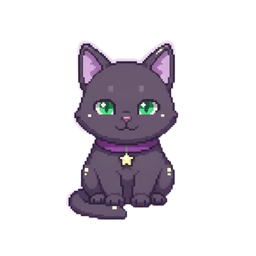
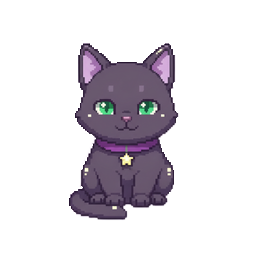
Refresh Workshop cat sprite

diff --git a/service-worker.js b/service-worker.js
@@ -1,5 +1,5 @@
 const CACHE_PREFIX = "ppw-shell-";
-const CACHE = `${CACHE_PREFIX}v44`;
+const CACHE = `${CACHE_PREFIX}v45`;
 const SHELL = ["./", "./index.html", "./style.css", "./game-logic.js", "./platform-adapters.js", "./audio-feedback.js", "./app.js", "./manifest.webmanifest", "./icon.svg", "./assets/audio/bagpop.mp3", "./assets/audio/brew-ready.mp3", "./assets/audio/brew-start.mp3", "./assets/audio/coin.mp3", "./assets/audio/confirm.mp3", "./assets/audio/gather.mp3", "./assets/audio/levelup.ogg", "./assets/audio/tap.ogg", "./assets/images/ingredients/dewleaf.png", "./assets/images/ingredients/dream-lavender.png", "./assets/images/ingredients/frostmint.png", "./assets/images/ingredients/mist-pearl.png", "./assets/images/ingredients/mooshroom.png", "./assets/images/ingredients/starshard.png", "./assets/images/ingredients/sun-ember.png", "./assets/images/misc/gather-satchel.png", "./assets/images/misc/workshop-cat.png", "./assets/images/misc/workshop-cauldron.png", "./assets/images/potions/aurora-nectar.png", "./assets/images/potions/aurora-nectar-animated-12f.png", "./assets/images/potions/bottled-sunrise.png", "./assets/images/potions/clarity-elixir.png", "./assets/images/potions/cloudbloom-tea.png", "./assets/images/potions/dreamers-draught.png", "./assets/images/potions/kindheart-cordial.png", "./assets/images/potions/lantern-sip.png", "./assets/images/potions/meadow-tonic.png", "./assets/images/potions/moonmilk.png", "./assets/images/potions/quietbell-tea.png", "./assets/images/potions/starlight-philter.png", "./assets/images/potions/wayfinder-cordial.png"];
 
 self.addEventListener("install", event => {

diff --git a/DEVICE_TEST_MATRIX.md b/DEVICE_TEST_MATRIX.md
@@ -1,6 +1,6 @@
 # Device and lifecycle test matrix
 
-Automated evidence and real browser/device evidence are separate. The active candidate is the charcoal-black/purple build with local audio, twenty-two supplied static/utility Sprixen sprites plus the optimized Aurora animation sheet, bounded automatic gathering, first-time Journal rewards, daily Villager Special Requests, and service-worker cache `ppw-shell-v44`.
+Automated evidence and real browser/device evidence are separate. The active candidate is the charcoal-black/purple build with local audio, twenty-two supplied static/utility Sprixen sprites plus the optimized Aurora animation sheet, bounded automatic gathering, first-time Journal rewards, daily Villager Special Requests, and service-worker cache `ppw-shell-v45`.
 
 ## Required local/browser candidate gates
 
@@ -36,7 +36,7 @@ Automated evidence and real browser/device evidence are separate. The active can
 | Area | Status | Required procedure |
 | --- | --- | --- |
 | Browser lifecycle | Untested | Background/resume/reload and clock-boundary tests in chosen Chromium, WebKit, and Firefox targets. |
-| PWA install/update | Untested | Install, standalone launch, update from the previous candidate `ppw-shell-v43` to `ppw-shell-v44`, confirm the in-app New update prompt appears, tap it to restart, then test offline relaunch, streamed-music behavior, eviction, and uninstall/reinstall. |
+| PWA install/update | Owner check pending | Update an installed `ppw-shell-v44` game to `ppw-shell-v45`, confirm the in-app New update prompt appears, tap it to restart, and verify the refreshed Workshop cat loads without losing progress. Offline relaunch, eviction, and uninstall/reinstall remain separate release checks. |
 | Network conditions | Untested | First load, offline reload, interrupted update, recovery, and third-party request inspection. |
 | Screen reader | Untested | Owner-approved VoiceOver, TalkBack, NVDA, or equivalent set. |
 | Physical iOS/iPadOS | Untested | Safari/PWA lifecycle, safe areas, audio unlock, storage, and orientation. |

diff --git a/RELEASE_READINESS.md b/RELEASE_READINESS.md
@@ -15,8 +15,8 @@ Audit date: 2026-07-12. Candidate version: `0.1.0`. This is an evidence report, 
 
 - `npm.cmd run check` covers deterministic gameplay, economy and scripted monetization simulations, save compatibility, fake-platform boundaries, sound/music mappings and persistence, service-worker behavior, security checks, and release budgets. Monetization magnitudes are exact for the checked-in scripted profile but directional for human play.
 - `npm.cmd run release:check` remains blocked while any required manual gate is pending or failed.
-- Runtime ceiling: 24,000,000 bytes including streamed music. The latest measured runtime is 23,954,557 bytes; `release-budgets.json` is authoritative and fails on material growth.
-- Service-worker cache generation is `ppw-shell-v44`. The install shell contains all code, eight sound effects, twenty-two supplied static/utility sprites, and the optimized Aurora animation sheet; the three large music tracks stream from the same origin on demand so they do not block installation. Existing installs show a clear restart prompt when the new worker takes control.
+- Runtime ceiling: 24,000,000 bytes including streamed music. The latest measured runtime is 23,943,935 bytes; `release-budgets.json` is authoritative and fails on material growth.
+- Service-worker cache generation is `ppw-shell-v45`. The install shell contains all code, eight sound effects, twenty-two supplied static/utility sprites, and the optimized Aurora animation sheet; the three large music tracks stream from the same origin on demand so they do not block installation. Existing installs show a clear restart prompt when the new worker takes control.
 - Gameplay, platform, sound, and compact Workshop UI preferences remain in separate versioned local namespaces.
 - Historical v1 through v7 saves migrate to current v8; future v9 coverage verifies overwrite protection, and frozen v1-v7 readers prove downlevel builds preserve newer saves.
 - Progression tests cover level-7 rebirth, same-date daily preservation, durable mastery/customer migration, exact upgrade previews, and deterministic trust favors.

diff --git a/ROLLBACK_PLAN.md b/ROLLBACK_PLAN.md
@@ -6,7 +6,7 @@
 - Gameplay save: version `8`, key `pocket-potion-works-v1`; the unchanged key lets v8 migrate v1-v7 and lets frozen downlevel readers protect newer data instead of silently forking it.
 - Platform state: `pocket-potion-works-platform-v1`.
 - Sound preference: `pocket-potion-works-audio-v1`.
-- Current service-worker cache: `ppw-shell-v44`.
+- Current service-worker cache: `ppw-shell-v45`.
 - Record the exact commit and tag at release time; do not rely on a temporary branch name as release identity.
 
 Do not rename, clear, merge, or downgrade versioned storage keys during rollback.